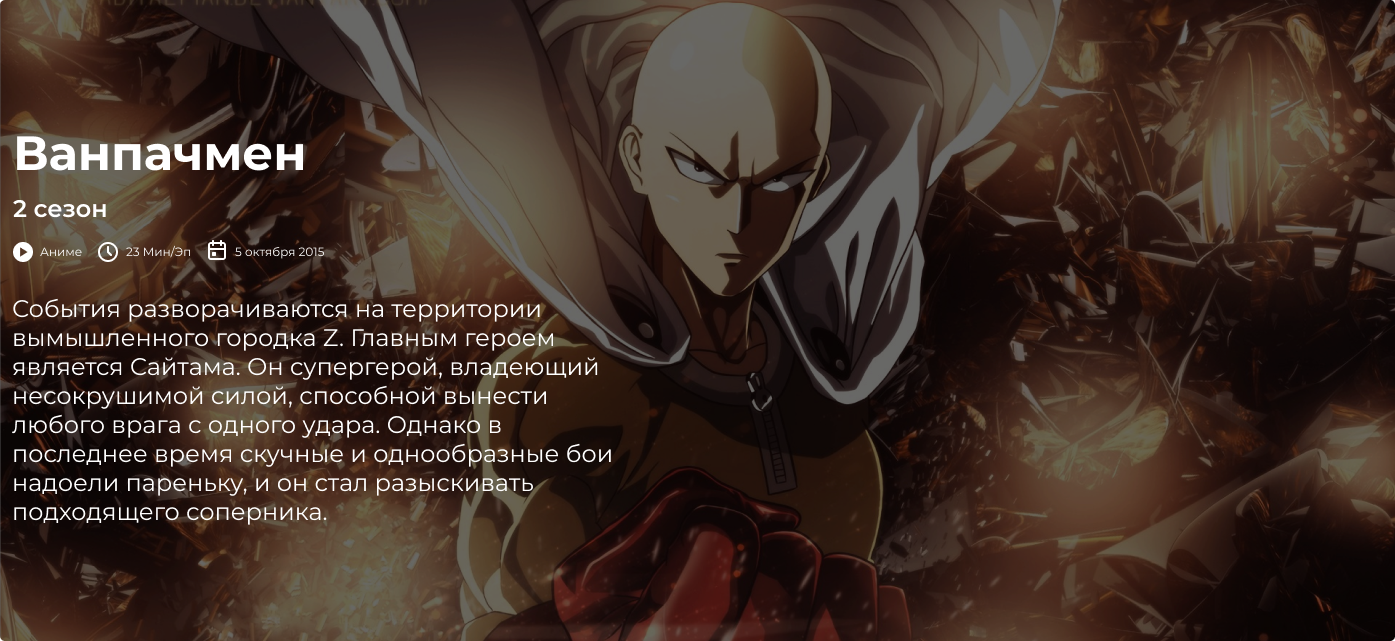
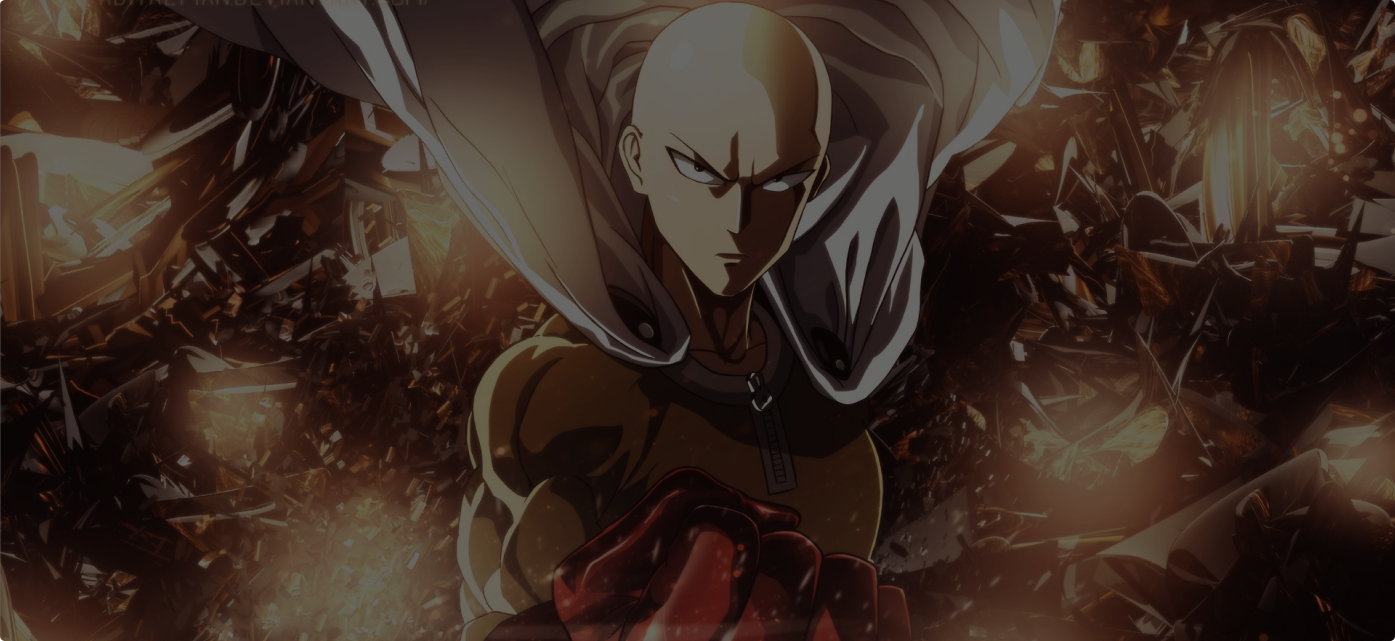
adasdasdasd

diff --git a/animestock/main_site/templates/anime.html b/animestock/main_site/templates/anime.html
@@ -127,7 +127,7 @@
 
 
 
-            
+
 
 
 
@@ -140,26 +140,70 @@
                 </a>
                 <h5 class="dop_func_in_serial">поделиться</h5>
                 <a style="margin-left: 10px;" href="#">
-                  <img  class="icon_in_serial" src="{% static 'images\icon\none_activ\favorite_none_activ.png' %}" alt="">
+                  <img class="icon_in_serial" src="{% static 'images\icon\none_activ\favorite_none_activ.png' %}"
+                    alt="">
                 </a>
               </div>
             </div>
-            
+
             <div class="col-7"></div>
             <div class="col-1 justify-content-end go_to_favorite">
               <a href="#">
                 <img class="icon_in_serial" src="{% static 'images\icon\none_activ\favorite_none_activ.png' %}" alt="">
               </a>
             </div>
-            
+
 
             <div class="col-1"></div>
             <div class="col-1"></div>
 
             <div class="col-10">
-              <img style="width: 100%;" src="{% static 'images\one_punch_poster.png'%}" alt="">
+              <div class="text_in_posters_container">
+                <img style="width: 100%;" src="{% static 'images\one_punch_poster.png'%}" alt="">
+
+                <div class="text_in_poster">
+                  <div class="cont_textom_ne_osn" style="font-size: 40px; margin-bottom: 20px;">
+                    Ванпачмен
+                  </div>
+                  
+                  <div class="cont_textom_ne_osn" style="margin-bottom: 20px;">
+                    2 сезон
+                  </div>
+
+                  <div class="cont_textom_ne_osn d-flex" style="margin-bottom: 20px;">
+                    <div style="margin-right: 5px;">
+                      <img src="{% static 'images/icon/none_activ/premium_none_activ.png'%}" alt="">
+                    </div>
+                    <div style="margin-right: 10px;">
+                      Аниме
+                    </div>
+
+                    <div style="margin-right: 5px;">
+                      <img src="{% static 'images/icon/none_activ/premium_none_activ.png'%}" alt="">
+                    </div>
+                    <div style="margin-right: 10px;">
+                      Аниме
+                    </div>
+
+                    <div style="margin-right: 5px;">
+                      <img src="{% static 'images/icon/none_activ/premium_none_activ.png'%}" alt="">
+                    </div>
+                    <div>
+                      Аниме
+                    </div>
+                  </div>
+                  <div class="cont_textom">
+                    События разворачиваются на территории вымышленного городка Z. Главным героем
+                    является Сайтама. Он супергерой, владеющий несокрушимой силой, способной вынести любого врага с
+                    одного удара. Однако в последнее время скучные и однообразные бои надоели пареньку, и он стал
+                    разыскивать подходящего соперника.
+                  </div>
+                </div>
+              </div>
+
             </div>
             <div class="col-1"></div>
+            
           </div>
 
 

diff --git a/animestock/main_site/static/css/main.css b/animestock/main_site/static/css/main.css
@@ -47,6 +47,40 @@ body{
     
 }
 
+
+
+.cont_textom_ne_osn{
+    width: 100%;
+    height: 10%;
+}
+
+.cont_textom{
+    width: 100%;
+    height: 70%;
+}
+
+.text_in_poster{
+    position: absolute;
+    display: flex;
+    flex-direction: column;
+    justify-content: center;
+    padding: 100px 40px;
+    height: 100px;
+    bottom: 0;
+    left: 0;
+    width: 50%;
+    height: 100%;
+    color: white;
+    font-size: 24px;
+    
+    
+}
+
+.text_in_posters_container{
+    position: relative;
+    color: white;
+}
+
 .poster_img{
     width: 227px;
     height: 387px;
@@ -151,6 +185,13 @@ a {
         height: 312px;
     }
 
+    .text_in_poster{
+        
+        width: 70%;
+        
+        
+        
+    }
 }
 
 
@@ -190,7 +231,28 @@ a {
         display: none;
     }
 
-    @media (max-width: 750px){
+
+    .text_in_poster{
+        
+        width: 100%;
+        
+        padding: 50px 40px;
+        
+    }
+    
+}
+
+@media (max-width: 1200px){
+    .text_in_poster{
+        
+        width: 100%;
+        font-size: 15px;
+        
+        
+    }
+}
+
+@media (max-width: 750px){
         .phot_main_cont{
             text-align: center;
             margin-left: 10px;
@@ -231,5 +293,26 @@ a {
             width: 147px;
             height: 250px;
         }
+        .cont_textom{
+            display: none;
+        }
+
+        .text_in_poster{
+        
+            width: 100%;
+            height: 100%;
+            padding: 0px 40px;
+            
+        }
+        .cont_textom_ne_osn{
+            width: auto;
+            height: auto;
+        }
     }
-}
+
+    @media (max-width: 450px){
+        .cont_textom_ne_osn{
+            width: auto;
+            height: 100%;
+        }
+    }
